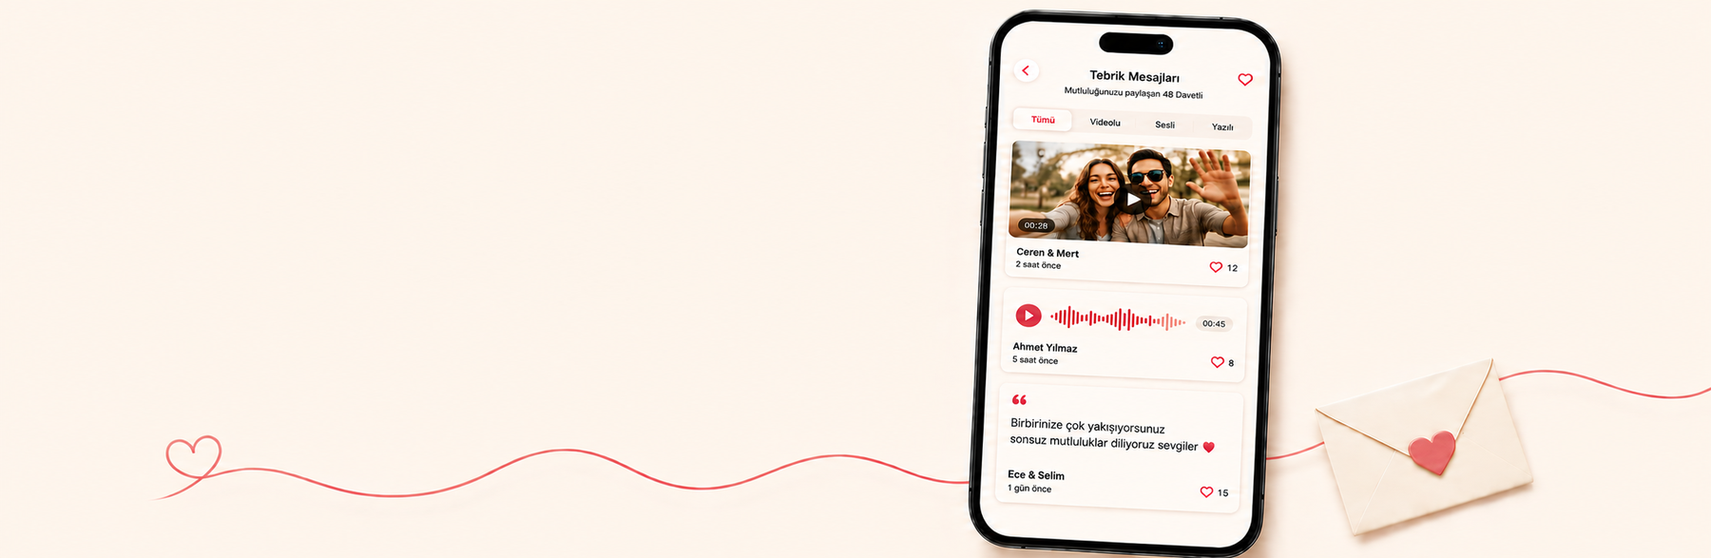
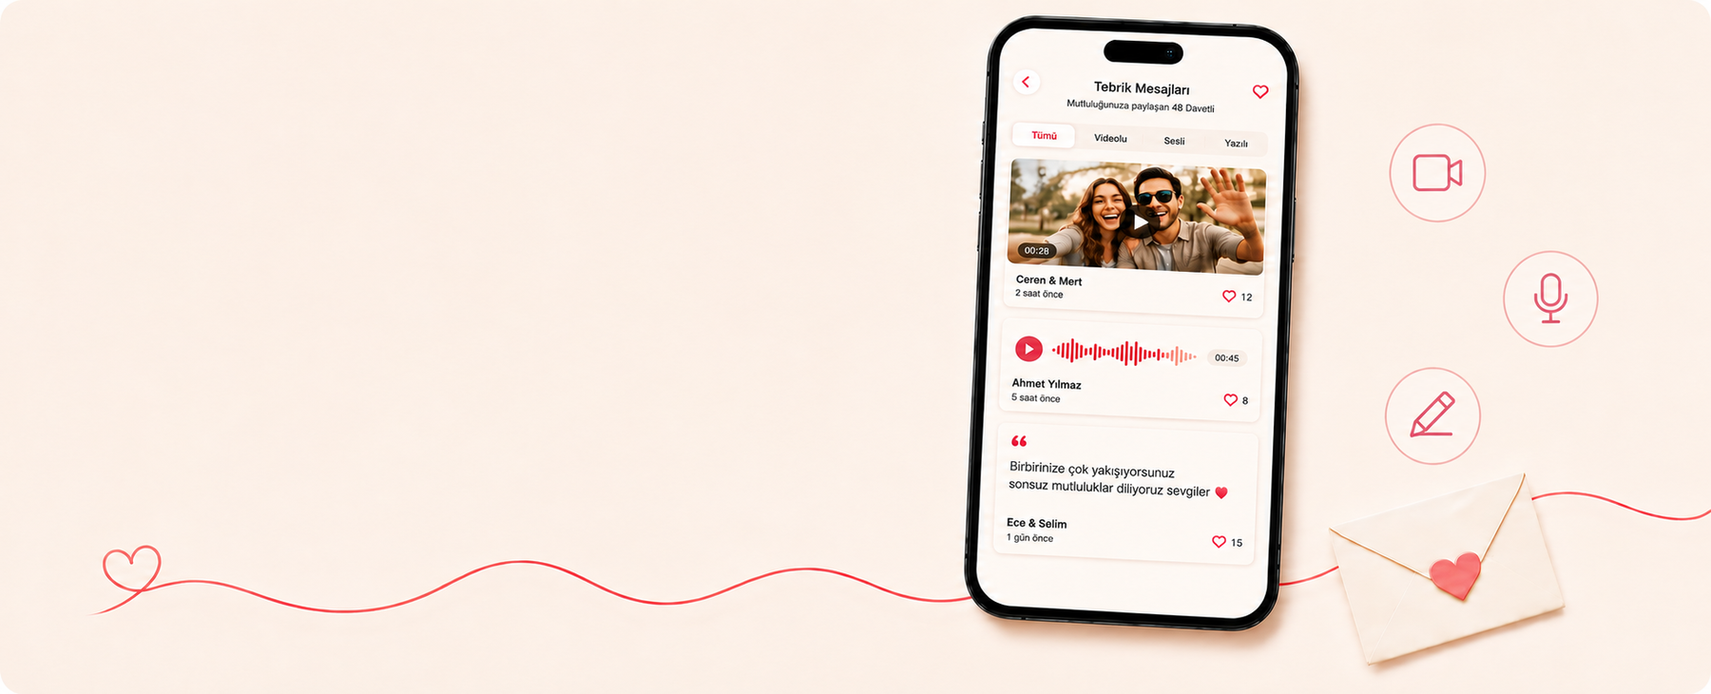
Ana sayfa: masa planlayici karti, Altin/Tebrik yeni gorsel+feature, Album yan yana+filmstrip; Neden Nikahim 6 kart
- Ozellikler: Masa Planlayicisi karti eklendi (en son); Altin yeni gorsel+metin sag+Havale/EFT/TL feature; Tebrik yeni gorsel (ikonlar gomulu, HTML feature kaldirildi); Album feature yan yana+filmstrip 84px+Baskiya Gonder
- Neden Nikahim: 7->6 kart (Canli Yayin, Altin Karsiligi TL, Tebrik, Ortak Album, Fotograf Baskisi, Akilli Masa Planlayicisi) yeni copy+badge, Ozel Davetiye cikti

diff --git a/app/page.tsx b/app/page.tsx
@@ -1065,9 +1065,9 @@ export default function Home() {
               <p className="mt-3 leading-relaxed text-[13px] text-right" style={{ color: '#6E5A5A' }}>Davetlileriniz seçtikleri altının TL karşılığını doğrudan hesabınıza göndersin. Arada aracı ve komisyon olmadan, paranız doğrudan size ulaşsın.</p>
               <div className="flex flex-col items-end gap-3 mt-5">
                 {[
-                  { label: 'Doğrudan Hesabınıza', icon: <svg className="w-[15px] h-[15px]" fill="none" stroke="currentColor" strokeWidth={1.8} viewBox="0 0 24 24"><path strokeLinecap="round" strokeLinejoin="round" d="M4 10h16M5 10L12 4l7 6M6 10v8M10 10v8M14 10v8M18 10v8M4 21h16" /></svg> },
-                  { label: 'Aracısız', icon: <svg className="w-[15px] h-[15px]" fill="none" stroke="currentColor" strokeWidth={1.8} viewBox="0 0 24 24"><path strokeLinecap="round" strokeLinejoin="round" d="M5 12h13M12 6l6 6-6 6" /></svg> },
-                  { label: 'Komisyonsuz', icon: <svg className="w-[15px] h-[15px]" fill="none" stroke="currentColor" strokeWidth={1.8} viewBox="0 0 24 24"><line x1="19" y1="5" x2="5" y2="19" strokeLinecap="round" /><circle cx="6.5" cy="6.5" r="2.5" /><circle cx="17.5" cy="17.5" r="2.5" /></svg> },
+                  { label: 'Doğrudan Hesabınıza', icon: <svg className="w-[15px] h-[15px]" fill="none" stroke="currentColor" strokeWidth={1.8} viewBox="0 0 24 24"><path strokeLinecap="round" strokeLinejoin="round" d="M5 12h13M12 6l6 6-6 6" /></svg> },
+                  { label: 'Havale/EFT', icon: <svg className="w-[15px] h-[15px]" fill="none" stroke="currentColor" strokeWidth={1.8} viewBox="0 0 24 24"><path strokeLinecap="round" strokeLinejoin="round" d="M4 10h16M5 10L12 4l7 6M6 10v8M10 10v8M14 10v8M18 10v8M4 21h16" /></svg> },
+                  { label: 'Altın Değerinde TL', icon: <svg className="w-[15px] h-[15px]" viewBox="0 0 24 24" fill="currentColor"><text x="12" y="18.5" textAnchor="middle" fontSize="20" fontWeight="800">₺</text></svg> },
                 ].map((b, i) => (
                   <div key={i} className="flex flex-row-reverse items-center gap-2.5">
                     <span className="w-8 h-8 flex-shrink-0 grid place-items-center rounded-[10px]" style={{ background: 'rgba(255,255,255,0.9)', border: '1px solid rgba(216,101,112,0.12)', boxShadow: '0 3px 10px rgba(70,45,40,0.04)', color: '#DC6873' }}>{b.icon}</span>
@@ -1077,7 +1077,7 @@ export default function Home() {
               </div>
             </div>
             {/* Masaüstü — metin sağda ortalı */}
-            <div className="hidden lg:flex absolute right-0 top-0 h-full w-[50%] flex-col justify-center pr-16 pl-10">
+            <div className="hidden lg:flex absolute right-0 top-0 h-full w-[48%] flex-col justify-center pr-10 pl-20">
               <div className="mb-5"><FeatureBadge label="ALTIN TAKMA" /></div>
               <h3 className="leading-[1.06]" style={{ fontFamily: 'var(--font-playfair)', color: '#C8686E', fontWeight: 600, fontSize: 'clamp(26px, 2.4vw, 38px)' }}>Altınlarınız,</h3>
               <h3 className="leading-[1.1] mt-1" style={{ fontFamily: 'var(--font-playfair)', color: '#1F1F1F', fontWeight: 600, fontSize: 'clamp(19px, 1.8vw, 28px)' }}>doğrudan hesabınıza.</h3>
@@ -1085,9 +1085,9 @@ export default function Home() {
               <p className="text-[13px] lg:text-[14px] leading-snug mb-5 max-w-[420px]" style={{ color: '#6E5A5A' }}>Davetlileriniz seçtikleri altının TL karşılığını doğrudan hesabınıza göndersin. Arada aracı ve komisyon olmadan, paranız doğrudan size ulaşsın.</p>
               <div className="flex flex-col gap-3 items-start">
                 {[
-                  { label: 'Doğrudan Hesabınıza', icon: <svg className="w-[17px] h-[17px]" fill="none" stroke="currentColor" strokeWidth={1.8} viewBox="0 0 24 24"><path strokeLinecap="round" strokeLinejoin="round" d="M4 10h16M5 10L12 4l7 6M6 10v8M10 10v8M14 10v8M18 10v8M4 21h16" /></svg> },
-                  { label: 'Aracısız', icon: <svg className="w-[17px] h-[17px]" fill="none" stroke="currentColor" strokeWidth={1.8} viewBox="0 0 24 24"><path strokeLinecap="round" strokeLinejoin="round" d="M5 12h13M12 6l6 6-6 6" /></svg> },
-                  { label: 'Komisyonsuz', icon: <svg className="w-[17px] h-[17px]" fill="none" stroke="currentColor" strokeWidth={1.8} viewBox="0 0 24 24"><line x1="19" y1="5" x2="5" y2="19" strokeLinecap="round" /><circle cx="6.5" cy="6.5" r="2.5" /><circle cx="17.5" cy="17.5" r="2.5" /></svg> },
+                  { label: 'Doğrudan Hesabınıza', icon: <svg className="w-[17px] h-[17px]" fill="none" stroke="currentColor" strokeWidth={1.8} viewBox="0 0 24 24"><path strokeLinecap="round" strokeLinejoin="round" d="M5 12h13M12 6l6 6-6 6" /></svg> },
+                  { label: 'Havale/EFT', icon: <svg className="w-[17px] h-[17px]" fill="none" stroke="currentColor" strokeWidth={1.8} viewBox="0 0 24 24"><path strokeLinecap="round" strokeLinejoin="round" d="M4 10h16M5 10L12 4l7 6M6 10v8M10 10v8M14 10v8M18 10v8M4 21h16" /></svg> },
+                  { label: 'Altın Değerinde TL', icon: <svg className="w-[17px] h-[17px]" viewBox="0 0 24 24" fill="currentColor"><text x="12" y="18.5" textAnchor="middle" fontSize="20" fontWeight="800">₺</text></svg> },
                 ].map((b, i) => (
                   <div key={i} className="flex items-center gap-2.5">
                     <span className="w-[38px] h-[38px] flex-shrink-0 grid place-items-center rounded-[12px]" style={{ background: 'rgba(255,255,255,0.88)', border: '1px solid rgba(216,101,112,0.12)', boxShadow: '0 4px 14px rgba(70,45,40,0.04)', color: '#DC6873' }}>{b.icon}</span>
@@ -1099,7 +1099,7 @@ export default function Home() {
           </div>
 
           {/* Tebrik Mesajları - mobile (1:1) + desktop (aspect 3.63:1 = canlı yayın ile aynı) */}
-          <div className="feature-card-hover relative rounded-[28px] overflow-hidden mx-auto w-full aspect-square lg:aspect-[2197/716] max-w-[720px] lg:max-w-none" style={{ boxShadow: '0 18px 50px rgba(72,47,42,0.055), 0 2px 8px rgba(72,47,42,0.025)', border: '1px solid rgba(174,112,108,0.13)' }}>
+          <div className="feature-card-hover relative rounded-[28px] overflow-hidden mx-auto w-full aspect-square lg:aspect-[1969/799] max-w-[720px] lg:max-w-none" style={{ boxShadow: '0 18px 50px rgba(72,47,42,0.055), 0 2px 8px rgba(72,47,42,0.025)', border: '1px solid rgba(174,112,108,0.13)' }}>
             <img src="/bg-tebrik.png" alt="" className="lg:hidden absolute inset-0 w-full h-full object-cover pointer-events-none select-none" />
             <img src="/bg-tebrik-masaustu.png" alt="Tebrik mesajlarınızı kabul edin" className="hidden lg:block absolute inset-0 w-full h-full object-cover pointer-events-none select-none" />
             {/* Mobil heading + açıklama + feature (yeni stil) */}
@@ -1129,19 +1129,7 @@ export default function Home() {
               <h3 className="leading-[1.06]" style={{ fontFamily: 'var(--font-playfair)', color: '#C8686E', fontWeight: 600, fontSize: 'clamp(24px, 2.2vw, 36px)' }}>Sevdiklerinizin mesajları,</h3>
               <h3 className="leading-[1.1] mt-1" style={{ fontFamily: 'var(--font-playfair)', color: '#1F1F1F', fontWeight: 600, fontSize: 'clamp(19px, 1.8vw, 28px)' }}>hep sizinle.</h3>
               <div className="mt-3 mb-3" style={{ width: '60px', height: '2px', background: '#C8686E', borderRadius: '2px' }} />
-              <p className="leading-snug text-[13px] lg:text-[14px] mb-5 max-w-[400px]" style={{ color: '#6E5A5A' }}>Davetlileriniz video, sesli veya yazılı tebriklerini bıraksın. Tüm güzel dilekleriniz tek yerde biriksin.</p>
-              <div className="flex flex-col gap-3 items-start">
-                {[
-                  { label: 'Video', icon: <svg className="w-[17px] h-[17px]" fill="none" stroke="currentColor" strokeWidth={1.8} viewBox="0 0 24 24"><rect x="2" y="6" width="13" height="12" rx="2" /><path strokeLinecap="round" strokeLinejoin="round" d="M15 10.5l6-3.5v10l-6-3.5z" /></svg> },
-                  { label: 'Sesli', icon: <svg className="w-[17px] h-[17px]" fill="none" stroke="currentColor" strokeWidth={1.8} viewBox="0 0 24 24"><rect x="9" y="2" width="6" height="11" rx="3" /><path strokeLinecap="round" strokeLinejoin="round" d="M5 11a7 7 0 0014 0M12 18v3M8 21h8" /></svg> },
-                  { label: 'Yazılı', icon: <svg className="w-[17px] h-[17px]" fill="none" stroke="currentColor" strokeWidth={1.8} viewBox="0 0 24 24"><path strokeLinecap="round" strokeLinejoin="round" d="M12 20h9M16.5 3.5a2.12 2.12 0 013 3L7 19l-4 1 1-4 12.5-12.5z" /></svg> },
-                ].map((b, i) => (
-                  <div key={i} className="flex items-center gap-2.5">
-                    <span className="w-[38px] h-[38px] flex-shrink-0 grid place-items-center rounded-[12px]" style={{ background: 'rgba(255,255,255,0.88)', border: '1px solid rgba(216,101,112,0.12)', boxShadow: '0 4px 14px rgba(70,45,40,0.04)', color: '#DC6873' }}>{b.icon}</span>
-                    <span className="text-[13px] font-medium whitespace-nowrap" style={{ color: '#554F4C' }}>{b.label}</span>
-                  </div>
-                ))}
-              </div>
+              <p className="leading-snug text-[13px] lg:text-[14px] max-w-[400px]" style={{ color: '#6E5A5A' }}>Davetlileriniz video, sesli veya yazılı tebriklerini bıraksın. Tüm güzel dilekleriniz tek yerde biriksin.</p>
             </div>
           </div>
 
@@ -1194,7 +1182,7 @@ export default function Home() {
                     </div>
                     <div className="absolute top-2.5 right-2.5 flex items-center gap-1 px-2 py-1 rounded-full" style={{ background: 'rgba(255,255,255,0.94)', boxShadow: '0 2px 7px rgba(80,60,40,0.16)' }}>
                       <svg className="w-3 h-3" fill="none" stroke="#C26068" strokeWidth="2" viewBox="0 0 24 24"><path strokeLinecap="round" strokeLinejoin="round" d="M6 9V3h12v6M6 18H5a2 2 0 01-2-2v-3a2 2 0 012-2h14a2 2 0 012 2v3a2 2 0 01-2 2h-1M6 14h12v5H6z" /></svg>
-                      <span className="text-[9px] font-bold leading-none" style={{ color: '#9F4F58' }}>Baskıya Hazır</span>
+                      <span className="text-[9px] font-bold leading-none" style={{ color: '#9F4F58' }}>Baskıya Gönder</span>
                     </div>
                   </div>
                 </div>
@@ -1275,13 +1263,13 @@ export default function Home() {
                   </div>
                   <div className="absolute top-1.5 right-1.5 flex items-center gap-1 px-2 py-1 rounded-full" style={{ background: 'rgba(255,255,255,0.94)', boxShadow: '0 2px 7px rgba(80,60,40,0.16)' }}>
                     <svg className="w-3 h-3" fill="none" stroke="#C26068" strokeWidth="2" viewBox="0 0 24 24"><path strokeLinecap="round" strokeLinejoin="round" d="M6 9V3h12v6M6 18H5a2 2 0 01-2-2v-3a2 2 0 012-2h14a2 2 0 012 2v3a2 2 0 01-2 2h-1M6 14h12v5H6z" /></svg>
-                    <span className="text-[8.5px] font-bold leading-none" style={{ color: '#9F4F58' }}>Baskıya Hazır</span>
+                    <span className="text-[8.5px] font-bold leading-none" style={{ color: '#9F4F58' }}>Baskıya Gönder</span>
                   </div>
                 </div>
               </div>
 
               {/* Filmstrip — sol kolonda ortalı, 15px yukarı (18→33) */}
-              <div className="absolute left-1/2 -translate-x-1/2 overflow-hidden" style={{ bottom: '33px', width: '320px', maskImage: 'linear-gradient(to right, transparent 0, black 8%, black 92%, transparent 100%)', WebkitMaskImage: 'linear-gradient(to right, transparent 0, black 8%, black 92%, transparent 100%)' }}>
+              <div className="absolute left-1/2 -translate-x-1/2 overflow-hidden" style={{ bottom: '26px', width: '400px', maskImage: 'linear-gradient(to right, transparent 0, black 8%, black 92%, transparent 100%)', WebkitMaskImage: 'linear-gradient(to right, transparent 0, black 8%, black 92%, transparent 100%)' }}>
                 <style>{`
                   @keyframes albumFilmstripDesktop {
                     0% { transform: translateX(0); }
@@ -1299,8 +1287,8 @@ export default function Home() {
                   {[...Array(2)].map((_, dup) => (
                     ['/foto2.png', '/foto3.png', '/foto4.png', '/foto5.png', '/foto6.jpg'].map((url, i) => (
                       <div key={`${dup}-${i}`}
-                           className="flex-shrink-0 rounded overflow-hidden"
-                           style={{ width: '36px', height: '36px', boxShadow: '0 2px 6px rgba(80,60,40,0.12)', border: '1px solid rgba(255,255,255,0.6)' }}>
+                           className="flex-shrink-0 rounded-lg overflow-hidden"
+                           style={{ width: '84px', height: '84px', boxShadow: '0 4px 12px rgba(80,60,40,0.16)', border: '1.5px solid rgba(255,255,255,0.7)' }}>
                         <img src={url} alt="" className="w-full h-full object-cover" />
                       </div>
                     ))
@@ -1316,11 +1304,57 @@ export default function Home() {
               <h3 className="leading-[1.1] mt-1" style={{ fontFamily: 'var(--font-playfair)', color: '#1F1F1F', fontWeight: 600, fontSize: 'clamp(19px, 1.8vw, 28px)' }}>sizin hikâyeniz.</h3>
               <div className="mt-3 mb-3" style={{ width: '60px', height: '2px', background: '#C8686E', borderRadius: '2px' }} />
               <p className="leading-snug text-[13px] lg:text-[14px] max-w-[380px] mb-5" style={{ color: '#6E5A5A' }}>Davetlileriniz düğün boyunca kendi çektikleri fotoğrafları albümünüze yüklesin. Tüm kareler tek yerde biriksin; ister siz ister davetlileriniz, dilediğiniz fotoğrafları kolayca baskı için seçin.</p>
-              <div className="flex flex-col gap-3 items-start">
+              <div className="flex flex-row gap-5 items-center flex-wrap">
                 {[
                   { label: 'Tek Albüm', icon: <svg className="w-[17px] h-[17px]" fill="none" stroke="currentColor" strokeWidth={1.8} viewBox="0 0 24 24"><path strokeLinecap="round" strokeLinejoin="round" d="M4 16l4.586-4.586a2 2 0 012.828 0L16 16m-2-2l1.586-1.586a2 2 0 012.828 0L20 14m-6-6h.01M6 20h12a2 2 0 002-2V6a2 2 0 00-2-2H6a2 2 0 00-2 2v12a2 2 0 002 2z" /></svg> },
                   { label: 'Kolay Yükleme', icon: <svg className="w-[17px] h-[17px]" fill="none" stroke="currentColor" strokeWidth={1.8} viewBox="0 0 24 24"><path strokeLinecap="round" strokeLinejoin="round" d="M12 15V4M8 8l4-4 4 4M4 15v3a2 2 0 002 2h12a2 2 0 002-2v-3" /></svg> },
                   { label: 'Fotoğraf Baskısı', icon: <svg className="w-[17px] h-[17px]" fill="none" stroke="currentColor" strokeWidth={1.8} viewBox="0 0 24 24"><path strokeLinecap="round" strokeLinejoin="round" d="M6 9V3h12v6M6 18H5a2 2 0 01-2-2v-3a2 2 0 012-2h14a2 2 0 012 2v3a2 2 0 01-2 2h-1M6 14h12v7H6z" /></svg> },
+                ].map((b, i) => (
+                  <div key={i} className="flex items-center gap-2.5">
+                    <span className="w-[38px] h-[38px] flex-shrink-0 grid place-items-center rounded-[12px]" style={{ background: 'rgba(255,255,255,0.88)', border: '1px solid rgba(216,101,112,0.12)', boxShadow: '0 4px 14px rgba(70,45,40,0.04)', color: '#DC6873' }}>{b.icon}</span>
+                    <span className="text-[13px] font-medium whitespace-nowrap" style={{ color: '#554F4C' }}>{b.label}</span>
+                  </div>
+                ))}
+              </div>
+            </div>
+          </div>
+
+          {/* Akıllı Masa Planlayıcısı — en son kart (mobil dikey dikdörtgen) */}
+          <div className="feature-card-hover relative rounded-[28px] overflow-hidden mx-auto w-full aspect-[874/1799] lg:aspect-[2195/716] max-w-[440px] lg:max-w-none" style={{ boxShadow: '0 18px 50px rgba(72,47,42,0.055), 0 2px 8px rgba(72,47,42,0.025)', border: '1px solid rgba(174,112,108,0.13)' }}>
+            <img src="/masa-plani-mobil.png" alt="" className="lg:hidden absolute inset-0 w-full h-full object-cover pointer-events-none select-none" />
+            <img src="/masa-plani-masaustu.png" alt="Akıllı masa planlayıcısı" className="hidden lg:block absolute inset-0 w-full h-full object-cover pointer-events-none select-none" />
+            {/* Mobil — metin üstte (krem alan) */}
+            <div className="lg:hidden absolute" style={{ top: '4%', left: '6%', right: '6%' }}>
+              <div className="mb-4"><FeatureBadge label="AKILLI MASA PLANLAYICISI" /></div>
+              <h3 className="leading-[1.06]" style={{ fontFamily: 'var(--font-playfair)', color: '#C8686E', fontWeight: 600, fontSize: 'clamp(22px, 5.6vw, 44px)' }}>Masa düzeniniz,</h3>
+              <h3 className="leading-[1.1] mt-1" style={{ fontFamily: 'var(--font-playfair)', color: '#1F1F1F', fontWeight: 600, fontSize: 'clamp(18px, 4.4vw, 34px)' }}>zahmetsizce hazır.</h3>
+              <div className="mt-3" style={{ width: 'clamp(38px, 9vw, 64px)', height: '2px', background: '#C8686E', borderRadius: '2px' }} />
+              <p className="mt-3 leading-relaxed text-[13px]" style={{ color: '#6E5A5A' }}>Davetlilerinizi ekleyin, tercihlerinizi belirleyin. Akıllı planlayıcı en uygun masa düzenini oluştursun; dilediğiniz gibi düzenleyip son halini verin.</p>
+              <div className="flex flex-col gap-3 mt-5 items-start">
+                {[
+                  { label: 'Akıllı Yerleşim', icon: <svg className="w-[15px] h-[15px]" fill="none" stroke="currentColor" strokeWidth={1.8} viewBox="0 0 24 24"><path strokeLinecap="round" strokeLinejoin="round" d="M12 2.5l1.8 5.2 5.2 1.8-5.2 1.8L12 16.5l-1.8-5.2L5 9.5l5.2-1.8z" /></svg> },
+                  { label: 'Kolay Davetli Yönetimi', icon: <svg className="w-[15px] h-[15px]" fill="none" stroke="currentColor" strokeWidth={1.8} viewBox="0 0 24 24"><path strokeLinecap="round" strokeLinejoin="round" d="M17 20h5v-2a4 4 0 00-3-3.87M9 20H4v-2a4 4 0 013-3.87m6-3.13a4 4 0 100-8 4 4 0 000 8zm6 0a3 3 0 100-6 3 3 0 000 6zm-12 0a3 3 0 100-6 3 3 0 000 6z" /></svg> },
+                  { label: 'Sürükle & Düzenle', icon: <svg className="w-[15px] h-[15px]" fill="none" stroke="currentColor" strokeWidth={1.8} viewBox="0 0 24 24"><path strokeLinecap="round" strokeLinejoin="round" d="M5 9l-3 3 3 3M9 5l3-3 3 3M15 19l-3 3-3-3M19 9l3 3-3 3M2 12h20M12 2v20" /></svg> },
+                ].map((b, i) => (
+                  <div key={i} className="flex items-center gap-2.5">
+                    <span className="w-8 h-8 flex-shrink-0 grid place-items-center rounded-[10px]" style={{ background: 'rgba(255,255,255,0.9)', border: '1px solid rgba(216,101,112,0.12)', boxShadow: '0 3px 10px rgba(70,45,40,0.04)', color: '#DC6873' }}>{b.icon}</span>
+                    <span className="text-[11px] font-medium" style={{ color: '#554F4C' }}>{b.label}</span>
+                  </div>
+                ))}
+              </div>
+            </div>
+            {/* Masaüstü — metin solda ortalı */}
+            <div className="hidden lg:flex absolute left-0 top-0 h-full w-[52%] flex-col justify-center pl-[156px] pr-4">
+              <div className="mb-5"><FeatureBadge label="AKILLI MASA PLANLAYICISI" /></div>
+              <h3 className="leading-[1.06]" style={{ fontFamily: 'var(--font-playfair)', color: '#C8686E', fontWeight: 600, fontSize: 'clamp(24px, 2.2vw, 36px)' }}>Masa düzeniniz,</h3>
+              <h3 className="leading-[1.1] mt-1" style={{ fontFamily: 'var(--font-playfair)', color: '#1F1F1F', fontWeight: 600, fontSize: 'clamp(19px, 1.8vw, 28px)' }}>zahmetsizce hazır.</h3>
+              <div className="mt-3 mb-3" style={{ width: '60px', height: '2px', background: '#C8686E', borderRadius: '2px' }} />
+              <p className="leading-snug text-[13px] lg:text-[14px] mb-5 max-w-[420px]" style={{ color: '#6E5A5A' }}>Davetlilerinizi ekleyin, tercihlerinizi belirleyin. Akıllı planlayıcı en uygun masa düzenini oluştursun; dilediğiniz gibi düzenleyip son halini verin.</p>
+              <div className="flex flex-col gap-3 items-start">
+                {[
+                  { label: 'Akıllı Yerleşim', icon: <svg className="w-[17px] h-[17px]" fill="none" stroke="currentColor" strokeWidth={1.8} viewBox="0 0 24 24"><path strokeLinecap="round" strokeLinejoin="round" d="M12 2.5l1.8 5.2 5.2 1.8-5.2 1.8L12 16.5l-1.8-5.2L5 9.5l5.2-1.8z" /></svg> },
+                  { label: 'Kolay Davetli Yönetimi', icon: <svg className="w-[17px] h-[17px]" fill="none" stroke="currentColor" strokeWidth={1.8} viewBox="0 0 24 24"><path strokeLinecap="round" strokeLinejoin="round" d="M17 20h5v-2a4 4 0 00-3-3.87M9 20H4v-2a4 4 0 013-3.87m6-3.13a4 4 0 100-8 4 4 0 000 8zm6 0a3 3 0 100-6 3 3 0 000 6zm-12 0a3 3 0 100-6 3 3 0 000 6z" /></svg> },
+                  { label: 'Sürükle & Düzenle', icon: <svg className="w-[17px] h-[17px]" fill="none" stroke="currentColor" strokeWidth={1.8} viewBox="0 0 24 24"><path strokeLinecap="round" strokeLinejoin="round" d="M5 9l-3 3 3 3M9 5l3-3 3 3M15 19l-3 3-3-3M19 9l3 3-3 3M2 12h20M12 2v20" /></svg> },
                 ].map((b, i) => (
                   <div key={i} className="flex items-center gap-2.5">
                     <span className="w-[38px] h-[38px] flex-shrink-0 grid place-items-center rounded-[12px]" style={{ background: 'rgba(255,255,255,0.88)', border: '1px solid rgba(216,101,112,0.12)', boxShadow: '0 4px 14px rgba(70,45,40,0.04)', color: '#DC6873' }}>{b.icon}</span>
@@ -1412,16 +1446,16 @@ export default function Home() {
         <div className="relative max-w-7xl mx-auto px-6">
           <div className="text-center mb-10 md:mb-12">
             <h2 className="text-4xl lg:text-5xl font-bold text-gray-900 mb-5" style={{ fontFamily: 'var(--font-playfair)' }}>Neden <span className="gradient-text">Nikahım?</span></h2>
-            <p className="text-lg text-gray-400 max-w-xl mx-auto">Özel gününüzü daha özel kılan profesyonel özellikler</p>
+            <p className="text-lg text-gray-400 max-w-xl mx-auto">Planlamadan canlı yayına, anılarınızdan fotoğraf baskısına kadar ihtiyacınız olan her şey Nikahım&apos;da.</p>
           </div>
           <div className="grid md:grid-cols-2 lg:grid-cols-3 gap-6 md:gap-7">
             {[
-              { title: 'Size Özel Yayın Sayfası', desc: 'Sadece size ait bir yayın sayfası! Dilerseniz Canlı Yayını herkese kapalı yapın, sadece davetiyeli kişiler katılsın.', badges: ['%100 Gizlilik', 'Özel Erişim'], icon: <svg className="w-6 h-6" fill="none" stroke="currentColor" viewBox="0 0 24 24"><path strokeLinecap="round" strokeLinejoin="round" strokeWidth={1.8} d="M12 15v2m-6 4h12a2 2 0 002-2v-6a2 2 0 00-2-2H6a2 2 0 00-2 2v6a2 2 0 002 2zm10-10V7a4 4 0 00-8 0v4h8z" /></svg> },
-              { title: 'Tek Tıkla Katılım & İzleme', desc: 'Davetlileriniz için uygulama gerekmez, üyelik gerekmez! Link üzerinden tek tıkla izlemeye başlarlar. Kaçırırlarsa sorun yok! Yayın kaydı 30 gün boyunca aynı linkte video olarak izlenebilir!', badges: ['Üyelik Yok', '30 Gün Kayıt'], dualIcon: true, icon: <svg className="w-6 h-6" fill="none" stroke="currentColor" viewBox="0 0 24 24"><path strokeLinecap="round" strokeLinejoin="round" strokeWidth={1.8} d="M15 15l-2 5L9 9l11 4-5 2zm0 0l5 5M7.188 2.239l.777 2.897M5.136 7.965l-2.898-.777M13.95 4.05l-2.122 2.122m-5.657 5.656l-2.12 2.122" /></svg>, icon2: <svg className="w-6 h-6" fill="none" stroke="currentColor" viewBox="0 0 24 24"><path strokeLinecap="round" strokeLinejoin="round" strokeWidth={1.8} d="M15 10l4.553-2.276A1 1 0 0121 8.618v6.764a1 1 0 01-1.447.894L15 14M5 18h8a2 2 0 002-2V8a2 2 0 00-2-2H5a2 2 0 00-2 2v8a2 2 0 002 2z" /></svg> },
-              { title: 'Online Altın Takma', desc: 'Havale/EFT veya Crypto ile altın takma! Ödemeler direkt sizin banka hesabınıza, aracı ve komisyon yok.', badges: ['Komisyonsuz', 'Aracı yok', 'Hızlı'], icon: <svg className="w-6 h-6" fill="none" stroke="currentColor" viewBox="0 0 24 24"><path strokeLinecap="round" strokeLinejoin="round" strokeWidth={1.8} d="M21 11.25v8.25a1.5 1.5 0 01-1.5 1.5H5.25a1.5 1.5 0 01-1.5-1.5v-8.25M12 4.875A2.625 2.625 0 109.375 7.5H12m0-2.625V7.5m0-2.625A2.625 2.625 0 1114.625 7.5H12m0 0V21m-8.625-9.75h18c.621 0 1.125-.504 1.125-1.125v-1.5c0-.621-.504-1.125-1.125-1.125h-18c-.621 0-1.125.504-1.125 1.125v1.5c0 .621.504 1.125 1.125 1.125z" /></svg> },
-              { title: 'Video ve Sesli Tebrik', desc: 'Davetlileriniz 30 saniyelik video veya 60 saniyelik sesli tebrik mesajı göndersin.', badges: ['30 sn Video', '60 sn Ses'], dualIcon: true, icon: <svg className="w-6 h-6" fill="none" stroke="currentColor" viewBox="0 0 24 24"><path strokeLinecap="round" strokeLinejoin="round" strokeWidth={1.8} d="M15 10l4.553-2.276A1 1 0 0121 8.618v6.764a1 1 0 01-1.447.894L15 14M5 18h8a2 2 0 002-2V8a2 2 0 00-2-2H5a2 2 0 00-2 2v8a2 2 0 002 2z" /></svg>, icon2: <svg className="w-6 h-6" fill="none" stroke="currentColor" viewBox="0 0 24 24"><path strokeLinecap="round" strokeLinejoin="round" strokeWidth={1.8} d="M19 11a7 7 0 01-7 7m0 0a7 7 0 01-7-7m7 7v4m0 0H8m4 0h4m-4-8a3 3 0 01-3-3V5a3 3 0 116 0v6a3 3 0 01-3 3z" /></svg> },
-              { title: 'Fotoğraf Albümü', desc: 'Siz yada Misafirleriniz (sizin onayınızın ardından) gün boyunca çekilen tüm fotoğrafları yüklesin, tüm anılar tek albümde toplansın.', badges: ['Birlikte Yükle', 'Tek Albüm', 'Kolay İndir'], icon: <svg className="w-6 h-6" fill="none" stroke="currentColor" viewBox="0 0 24 24"><path strokeLinecap="round" strokeLinejoin="round" strokeWidth={1.8} d="M4 16l4.586-4.586a2 2 0 012.828 0L16 16m-2-2l1.586-1.586a2 2 0 012.828 0L20 14m-6-6h.01M6 20h12a2 2 0 002-2V6a2 2 0 00-2-2H6a2 2 0 00-2 2v12a2 2 0 002 2z" /></svg> },
-              { title: 'Özel Davetiye', desc: 'WhatsApp, Instagram ve diğer platformlardan kolayca paylaşabileceğiniz size özel davetiye.', badges: ['Kolay Paylaşım', 'Tek link'], icon: <svg className="w-6 h-6" fill="none" stroke="currentColor" viewBox="0 0 24 24"><path strokeLinecap="round" strokeLinejoin="round" strokeWidth={1.8} d="M3 8l7.89 5.26a2 2 0 002.22 0L21 8M5 19h14a2 2 0 002-2V7a2 2 0 00-2-2H5a2 2 0 00-2 2v10a2 2 0 002 2z" /></svg> },
+              { title: 'Canlı Yayın', desc: 'Düğününüzü size özel sayfanızdan canlı yayınlayın. Davetlileriniz uygulama indirmeden, tek tıkla yayına katılsın.', badges: ['Özel Yayın Sayfası', 'Tek Tıkla Katılım', 'Full HD'], icon: <svg className="w-6 h-6" fill="none" stroke="currentColor" viewBox="0 0 24 24"><path strokeLinecap="round" strokeLinejoin="round" strokeWidth={1.8} d="M15 10l4.553-2.276A1 1 0 0121 8.618v6.764a1 1 0 01-1.447.894L15 14M5 18h8a2 2 0 002-2V8a2 2 0 00-2-2H5a2 2 0 00-2 2v8a2 2 0 002 2z" /></svg> },
+              { title: 'Altın Karşılığı TL Gönderimi', desc: 'Davetlileriniz seçtikleri altının TL karşılığını doğrudan hesabınıza göndersin. Nikahım paranıza aracılık etmez.', badges: ['Doğrudan Hesabınıza', 'Aracısız', 'Komisyonsuz'], icon: <svg className="w-6 h-6" fill="none" stroke="currentColor" viewBox="0 0 24 24"><path strokeLinecap="round" strokeLinejoin="round" strokeWidth={1.8} d="M4 10h16M5 10L12 4l7 6M6 10v8M10 10v8M14 10v8M18 10v8M4 21h16" /></svg> },
+              { title: 'Tebrik Mesajları', desc: 'Davetlileriniz video, sesli veya yazılı tebriklerini bıraksın. Tüm güzel dilekleriniz tek yerde biriksin.', badges: ['Videolu', 'Sesli', 'Yazılı'], dualIcon: true, icon: <svg className="w-6 h-6" fill="none" stroke="currentColor" viewBox="0 0 24 24"><path strokeLinecap="round" strokeLinejoin="round" strokeWidth={1.8} d="M15 10l4.553-2.276A1 1 0 0121 8.618v6.764a1 1 0 01-1.447.894L15 14M5 18h8a2 2 0 002-2V8a2 2 0 00-2-2H5a2 2 0 00-2 2v8a2 2 0 002 2z" /></svg>, icon2: <svg className="w-6 h-6" fill="none" stroke="currentColor" viewBox="0 0 24 24"><path strokeLinecap="round" strokeLinejoin="round" strokeWidth={1.8} d="M19 11a7 7 0 01-7 7m0 0a7 7 0 01-7-7m7 7v4m0 0H8m4 0h4m-4-8a3 3 0 01-3-3V5a3 3 0 116 0v6a3 3 0 01-3 3z" /></svg> },
+              { title: 'Ortak Fotoğraf Albümü', desc: 'Siz ve davetlileriniz düğünde çektiğiniz fotoğrafları yükleyin. Tüm anılarınız tek albümde bir araya gelsin.', badges: ['Birlikte Yükleyin', 'Tek Albüm', 'Çift Onayı'], icon: <svg className="w-6 h-6" fill="none" stroke="currentColor" viewBox="0 0 24 24"><path strokeLinecap="round" strokeLinejoin="round" strokeWidth={1.8} d="M4 16l4.586-4.586a2 2 0 012.828 0L16 16m-2-2l1.586-1.586a2 2 0 012.828 0L20 14m-6-6h.01M6 20h12a2 2 0 002-2V6a2 2 0 00-2-2H6a2 2 0 00-2 2v12a2 2 0 002 2z" /></svg> },
+              { title: 'Fotoğraf Baskısı', desc: 'İster siz ister davetlileriniz, dilediğiniz fotoğrafları baskı için seçin. Seçilen kareler fotoğrafçınızın paneline ulaşsın.', badges: ['Albümden Seçin', 'Kolay Baskı', 'Fotoğrafçı Paneli'], icon: <svg className="w-6 h-6" fill="none" stroke="currentColor" viewBox="0 0 24 24"><path strokeLinecap="round" strokeLinejoin="round" strokeWidth={1.8} d="M6 9V3h12v6M6 18H5a2 2 0 01-2-2v-3a2 2 0 012-2h14a2 2 0 012 2v3a2 2 0 01-2 2h-1M6 14h12v7H6z" /></svg> },
+              { title: 'Akıllı Masa Planlayıcısı', desc: 'Davetlilerinizi ekleyin, tercihlerinizi belirleyin. Akıllı planlayıcı en uygun masa düzenini oluştursun; son dokunuşları siz yapın.', badges: ['Akıllı Yerleşim', 'Davetli Yönetimi', 'Sürükle & Düzenle'], icon: <svg className="w-6 h-6" fill="none" stroke="currentColor" viewBox="0 0 24 24"><rect x="3" y="3" width="7" height="7" rx="1.5" strokeWidth={1.8} /><rect x="14" y="3" width="7" height="7" rx="1.5" strokeWidth={1.8} /><rect x="3" y="14" width="7" height="7" rx="1.5" strokeWidth={1.8} /><rect x="14" y="14" width="7" height="7" rx="1.5" strokeWidth={1.8} /></svg> },
             ].map((feature, i) => (
               <div key={i}
                    className="premium-card group p-7 rounded-3xl bg-white transition-all duration-300 hover:-translate-y-1 flex flex-col h-full"
